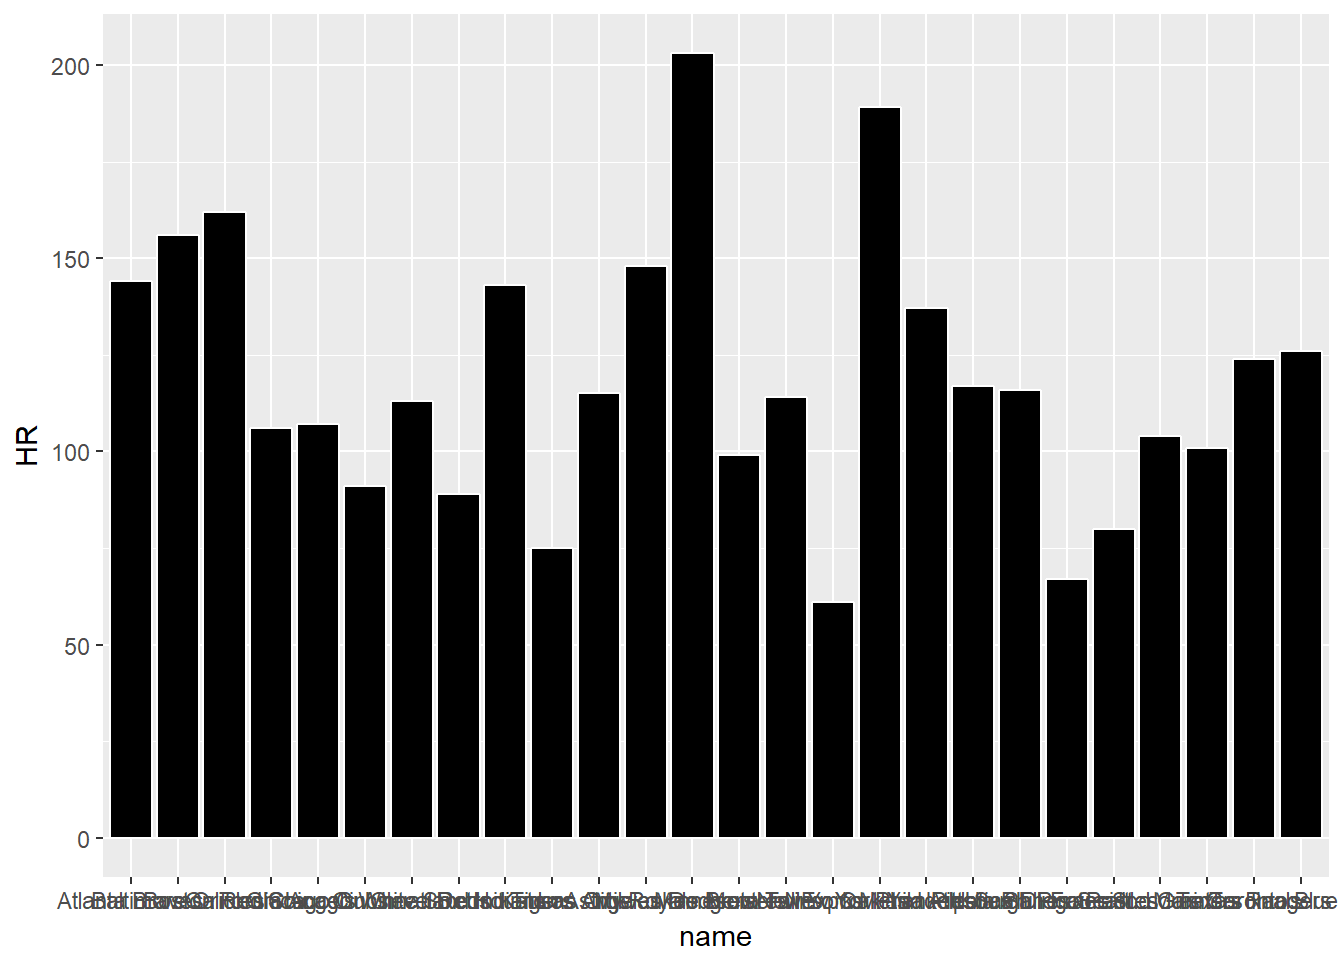
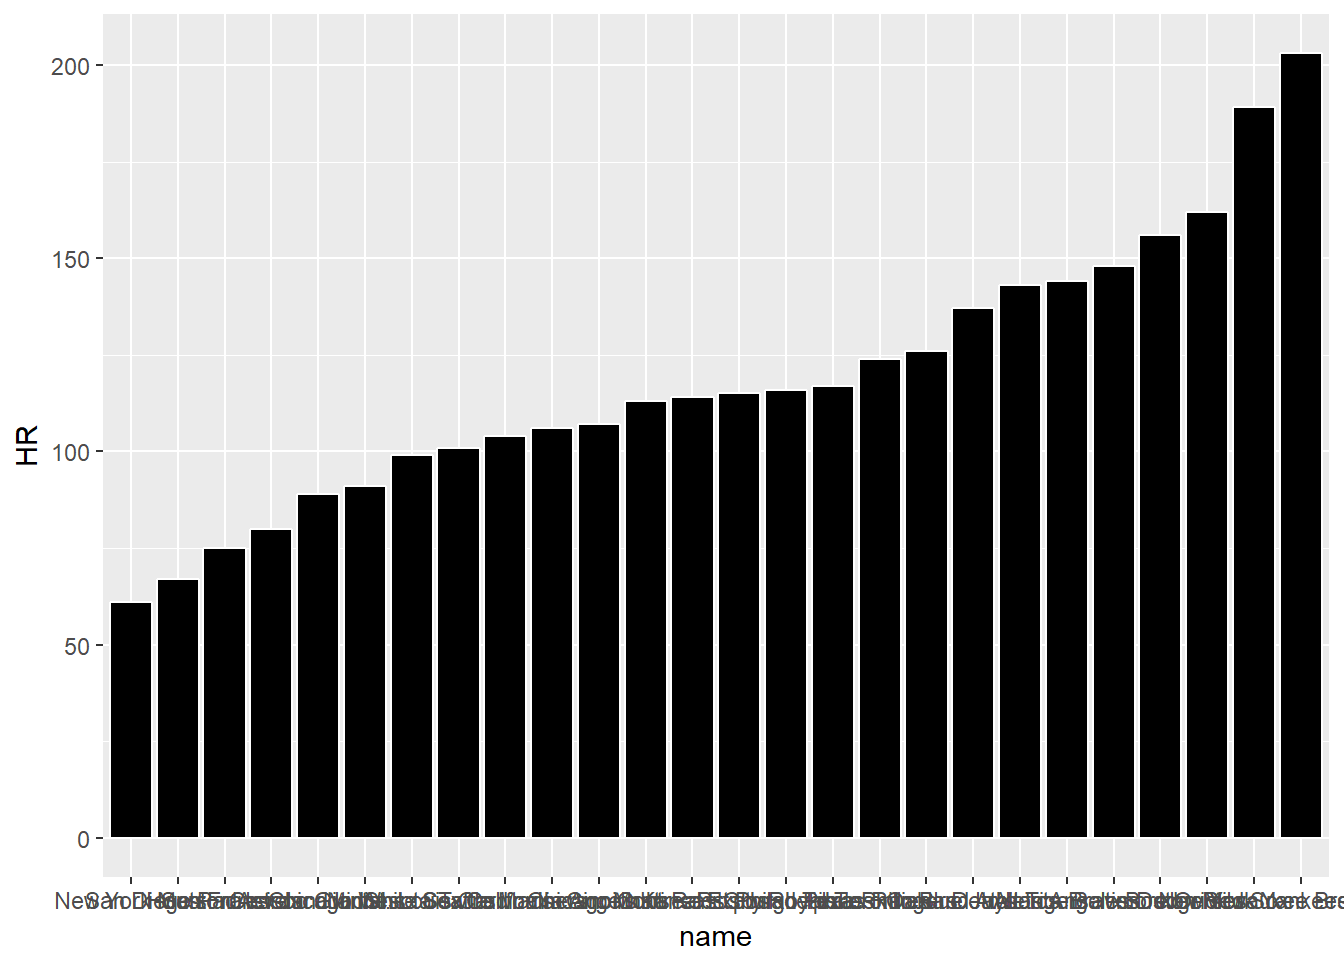
v10

diff --git a/content/post/Bar_hist_charts.html b/content/post/Bar_hist_charts.html
@@ -50,7 +50,10 @@ library(Lahman)</code></pre>
 <p>The prerequisite for barplots are that the Variable of interest is categorical</p>
 <pre class="r"><code>df&lt;-Teams%&gt;%
   filter(yearID==1980)%&gt;%
-  select(name,HR)</code></pre>
+  select(name,HR)%&gt;%
+  arrange(HR)
+
+df$name&lt;-factor(df$name,levels=df$name)</code></pre>
 <p>Now that we have a categorical variable, lts get on to making a visualization</p>
 <pre class="r"><code>ggplot()+
   geom_bar(data=df, aes(x=name,y= HR), stat=&quot;identity&quot;,color=&quot;white&quot;,fill=&quot;black&quot;)</code></pre>

diff --git a/content/post/post8.md b/content/post/post8.md
@@ -2,8 +2,7 @@
 showonlyimage = true
 draft = false
 date = "2017-10-23T18:25:22+05:30"
-title = "Linear Discriminant Analysis
-"
+title = "Linear Discriminant Analysis"
 weight = 0
 +++
 
